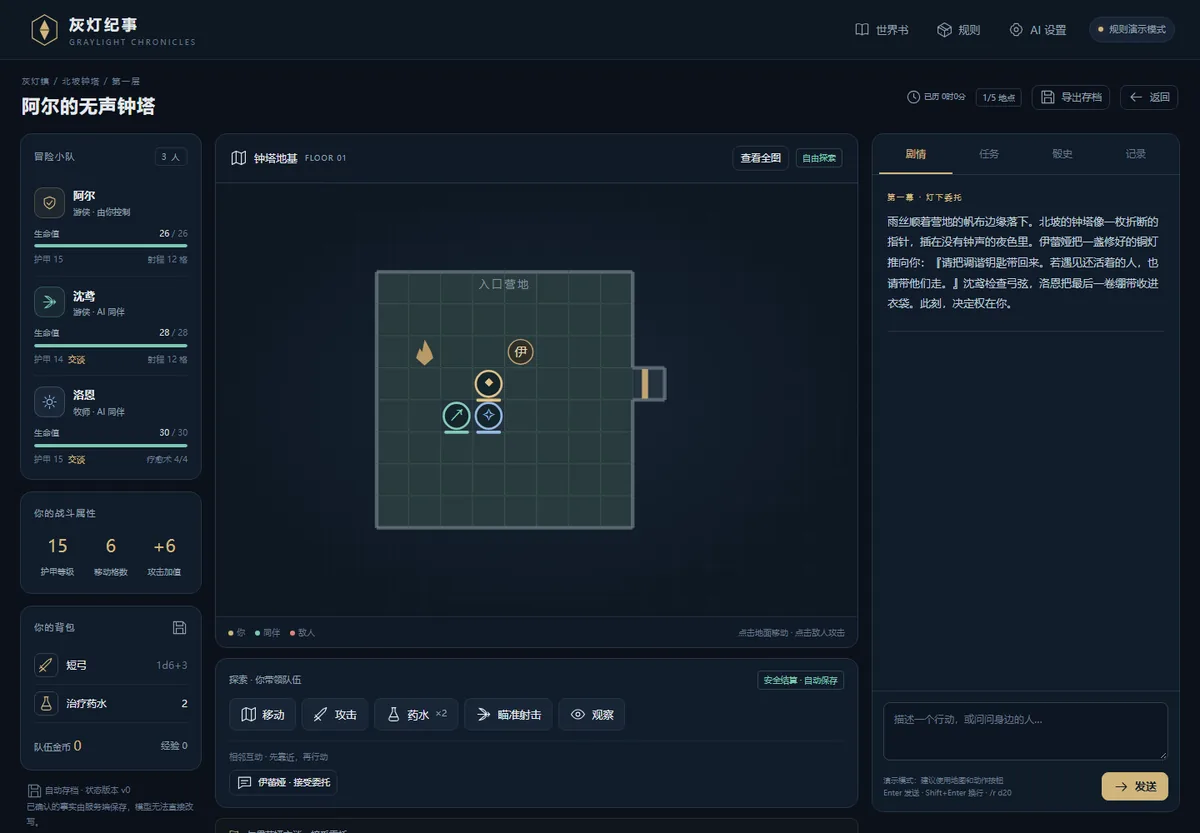
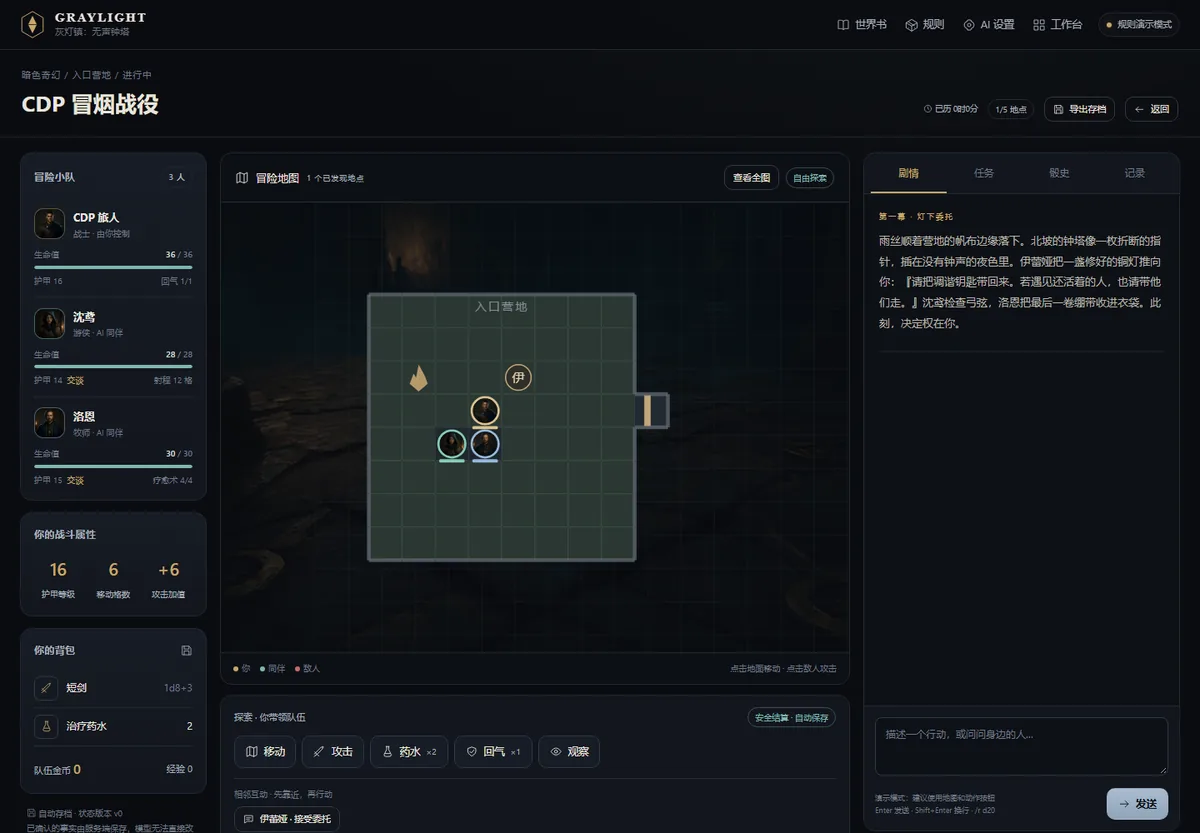
docs: M4 report, repo link, sanitized README

diff --git a/docs/m4-report.md b/docs/m4-report.md
@@ -1,0 +1,33 @@
+# v0.2 M4 进度报告：跑团页视觉与棋子
+
+日期：2026-10-22
+
+## 已交付
+
+- **中性跑团外壳**：顶栏改为 `GRAYLIGHT` 品牌 + 世界名 + 工作台入口；颜色与平台一致（石墨黑、冷钢、象牙白）。
+- **世界主题**：战役快照返回 `pack`；前端注入 `--world-accent / --world-tint / --world-backdrop`，影响强调色、标签与地图底图。
+- **地图氛围**：使用本地生成的暗色地牢底图作为 `map-stage` 背景；网格、墙、门仍由数据/SVG 渲染，几何保持准确。
+- **棋子头像**：用 Qwen-Image-2.1 生成 10 张 512×512 半身像，转 256 webp；玩家（战士/游侠/牧师）、沈鸢、洛恩、哥布林近战/弓手、祭坛守卫、伊蕾娅、米咕。
+- **地图棋子**：SVG `clipPath` 圆形裁切 + 阵营描边 + HP 条；图片缺失时 `onerror` 回退到原有字形。
+- **跑团能力**：能力按钮按 `abilityIds` 渲染；队伍卡显示能力资源或射程；背包显示当前武器与伤害。
+- **地图标题**：改为「冒险地图 / N 个已发现地点」，不再写死「钟塔地基」。
+- **仓库整理**：绝对路径改为环境变量/占位符；生成产物与模型不进仓库；推送 GitHub。
+
+## 生成实测（Qwen-Image-2.1）
+
+- 10 张 512×512、24 步头像：**每张 28–58s**。
+- 本次加载 445s（同时运行无头浏览器占用内存导致偏慢；正常约 45–120s）。
+- 产出：`tools/art/out/tokens/`（git 忽略），UI 使用 `public/art/tokens/*.webp`（10 张，约 60KB）。
+- 一致性：固定风格块 + 固定 seed + 方形构图 + 深色中性背景，UI 圆形裁切。
+
+## 截图
+
+- `docs/screenshots/play.webp`：跑团页（新顶栏、世界底图、头像棋子）。
+- `docs/screenshots/tokens.webp`：10 张头像的 contact sheet。
+
+## 仍未完成
+
+- 命中/受伤浮动反馈、路径与射程预览、NPC 在地图上的头像化。
+- 跑团页移动端布局未重新截图验证。
+- 地图底图只做氛围，未做贴图与网格对齐（几何仍为数据渲染）。
+- 无 Playwright 自动化；截图与流程由 CDP/Edge 手动工具验证。

diff --git a/README.md b/README.md
@@ -4,6 +4,16 @@
 
 工作台（`/`）管理战役与角色；进入战役后，你扮演自己的角色，与 AI 同伴探索五个房间，击败守卫，调查维护款的去向，带回调谐钥匙。可以直接点击地图与按钮，也可以连接 OpenAI 兼容模型，以自然语言表达行动。
 
+仓库：https://github.com/mahochyan/mahoVTT
+
+## 当前进度（v0.2）
+
+- 平台：工作台、战役列表/详情、角色名册、四步创建向导、世界库、内容库、设置。
+- 跑团：沿用现有规则引擎；顶部导航与平台统一；世界封面/背景与角色棋子头像。
+- 视觉：中性「档案库」外壳 + 世界主题（强调色、封面、底图）；不绑定单一题材。
+- 测试：`npm test` 目前 62 / 62 通过。
+- 未完成：内容包与第二世界、Forge/社区/多人、完整浏览器自动化；详见 `docs/m2-report.md`。
+
 ## 先启动，再接 AI
 
 1. 把项目放在任意本地目录，例如 `<项目目录>`。不会使用或修改相邻的其他项目。
